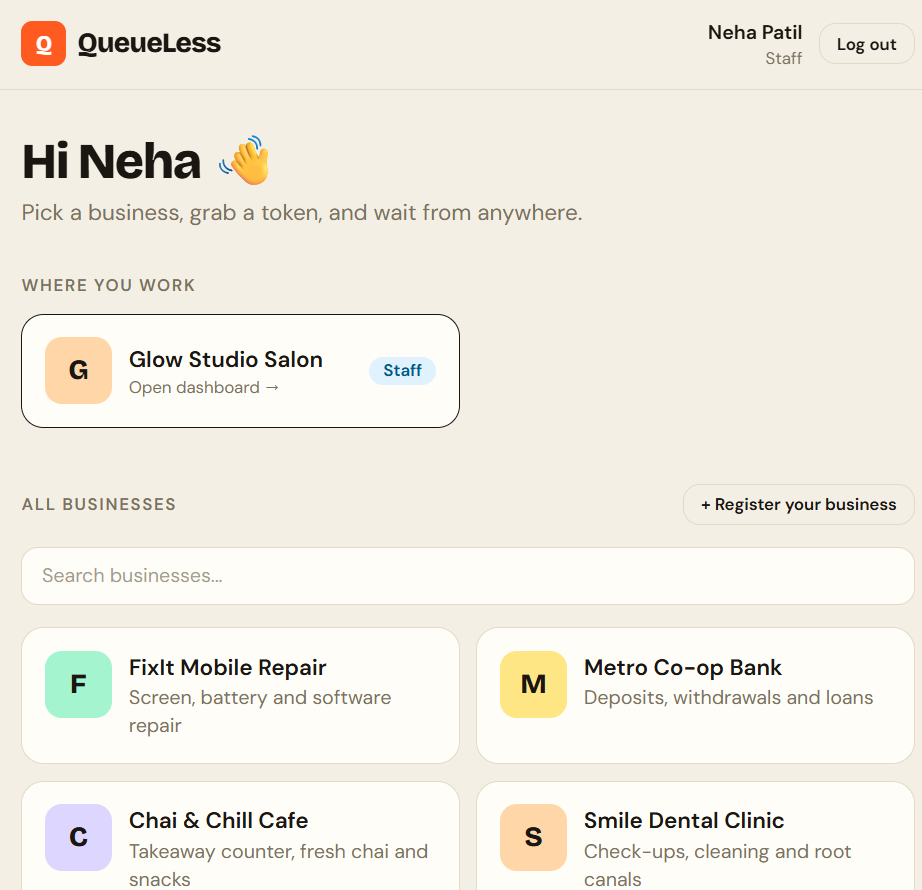
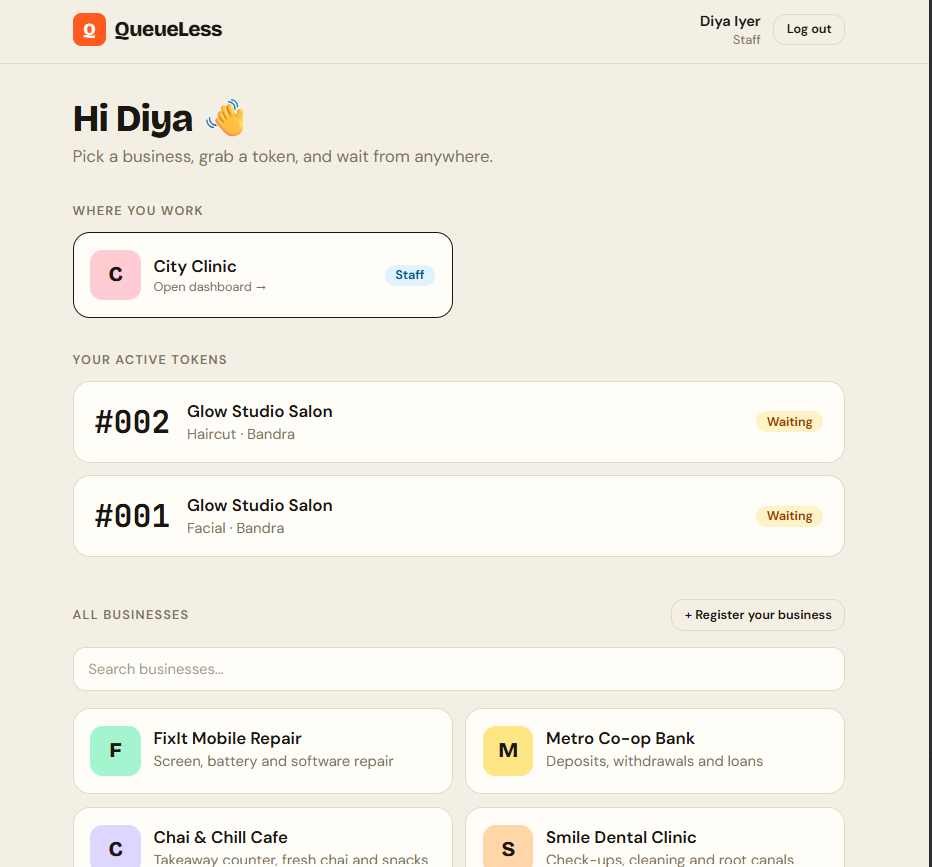
feat: owner staff management panel

diff --git a/frontend/src/components/StaffPanel.jsx b/frontend/src/components/StaffPanel.jsx
@@ -1,0 +1,96 @@
+import { useEffect, useState } from 'react'
+import { api } from '../lib/api'
+
+export default function StaffPanel({ businessId }) {
+  const [staff, setStaff] = useState(null)
+  const [email, setEmail] = useState('')
+  const [error, setError] = useState('')
+  const [busy, setBusy] = useState(false)
+
+  const load = () =>
+    api(`/businesses/${businessId}/staff`)
+      .then(setStaff)
+      .catch((e) => setError(e.message))
+
+  useEffect(() => { load() }, [businessId])
+
+  async function add(e) {
+    e.preventDefault()
+    setError('')
+    setBusy(true)
+    try {
+      await api(`/businesses/${businessId}/staff`, { method: 'POST', body: { email } })
+      setEmail('')
+      await load()
+    } catch (err) {
+      setError(
+        err.message.includes('user not found')
+          ? 'No account with that email. They need to sign up first.'
+          : err.message
+      )
+    } finally {
+      setBusy(false)
+    }
+  }
+
+  async function remove(userId, name) {
+    if (!window.confirm(`Remove ${name} from your staff?`)) return
+    setError('')
+    try {
+      await api(`/businesses/${businessId}/staff/${userId}`, { method: 'DELETE' })
+      await load()
+    } catch (err) {
+      setError(err.message)
+    }
+  }
+
+  return (
+    <section className="mt-10">
+      <h2 className="text-xs uppercase tracking-widest text-muted font-semibold mb-3">Staff</h2>
+
+      <div className="card p-4">
+        <div className="space-y-2">
+          {staff === null && <div className="h-10 rounded-lg bg-paper animate-pulse" />}
+
+          {staff?.map((s) => {
+            const name = s.profiles?.full_name || 'Unnamed staff'
+            return (
+              <div key={s.user_id} className="flex items-center justify-between gap-3">
+                <div className="flex items-center gap-3 min-w-0">
+                  <span className="grid place-items-center size-9 shrink-0 rounded-lg bg-sky-100 text-sky-800 font-display font-extrabold">
+                    {name[0]}
+                  </span>
+                  <p className="font-medium truncate">{name}</p>
+                </div>
+                <button onClick={() => remove(s.user_id, name)} className="btn btn-ghost btn-sm text-red-600">
+                  Remove
+                </button>
+              </div>
+            )
+          })}
+
+          {staff?.length === 0 && (
+            <p className="text-sm text-muted">No staff yet. Add someone below so they can run your queues.</p>
+          )}
+        </div>
+
+        <form onSubmit={add} className="flex gap-2 mt-4 pt-4 border-t border-dashed border-line">
+          <input
+            className="field flex-1"
+            type="email"
+            placeholder="Staff member's email"
+            value={email}
+            onChange={(e) => setEmail(e.target.value)}
+            required
+          />
+          <button disabled={busy} className="btn btn-accent">{busy ? 'Adding...' : 'Add staff'}</button>
+        </form>
+
+        {error && <p className="text-red-600 text-sm mt-3">{error}</p>}
+        <p className="text-xs text-muted mt-3">
+          Staff can call, serve and skip customers at every branch of this business. They can't edit the business or manage other staff.
+        </p>
+      </div>
+    </section>
+  )
+}

diff --git a/frontend/src/pages/BusinessPage.jsx b/frontend/src/pages/BusinessPage.jsx
@@ -5,6 +5,7 @@ import { useAuth } from '../AuthContext'
 import { useLive } from '../lib/useLive'
 import Layout from '../components/Layout'
 import QRCard from '../components/QRCard'
+import StaffPanel from '../components/StaffPanel'
 function ServiceRow({ service, isOwner, canManage, canJoin, onChanged }) {
   const navigate = useNavigate()
   const [q, setQ] = useState(null)
@@ -198,6 +199,7 @@ export default function BusinessPage() {
           <button className="btn">Add branch</button>
         </form>
       )}
+      {isOwner && <StaffPanel businessId={business.id} />}
       {canManage && <QRCard businessId={business.id} name={business.name} />}
     </Layout>
   )
